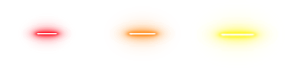
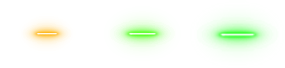
changed bullets for both xwing and tiefighters

Changed region(s): [[0.7298, 0.2941, 0.9544, 0.7059], [0.4211, 0.3529, 0.5895, 0.6471], [0.0842, 0.3529, 0.2246, 0.6176]]

diff --git a/js/gameV.js b/js/gameV.js
@@ -39,9 +39,13 @@ var xwing;
 var alive = false;
 var tieFighters;
 var blaster;
-var bullets;
-var bulletTime = 0;
+var bulletsR;
+var bulletsL;
+var bulletTimeL = 0;
+var bulletTimeR = 0;
 var bullet;
+var bulletL;
+var bulletR;
 var tieBullet;
 var enemyBullets;
 var explosions;
@@ -69,7 +73,8 @@ function preload() {
     game.load.image('foreground', 'assets/deathstar.png');
     game.load.image('xwing', 'assets/xwing.png');
     game.load.image('tieFighter', 'assets/tie.png');
-    game.load.image('bullet', 'assets/bullet0.png');
+    game.load.image('bulletL', 'assets/bullet0.png');
+    game.load.image('bulletR', 'assets/bullet0.png');
     game.load.image('tieBullet', 'assets/enemyBullet0.png');
     game.load.spritesheet('kaboom', 'assets/explode.png', 128, 128);
     game.load.audio('blaster', 'assets/blaster.mp3');
@@ -117,7 +122,7 @@ function createText() {
 
 }
 
-function play() {
+function playGame() {
 
     //game.paused = true;
     console.log('PLAY GAME');
@@ -202,7 +207,6 @@ function create() {
     tieFightersBullets.forEach(function (enemy) {
         enemy.body.setSize(20, 20);
         enemy.body.setSize(enemy.width * 3 / 4, enemy.height * 3 / 4);
-        enemy.damageAmount = 20;
     });
 
     launchTieFighter();
@@ -212,21 +216,32 @@ function create() {
     xwing.physicsBodyType = Phaser.Physics.ARCADE;
 
 
-    bullets = game.add.group();
-    bullets.enableBody = true;
-    bullets.physicsBodyType = Phaser.Physics.ARCADE;
+    bulletsR = game.add.group();
+    bulletsR.enableBody = true;
+    bulletsR.physicsBodyType = Phaser.Physics.ARCADE;
+    bulletsR.createMultiple(30, 'bulletR');
+    bulletsL = game.add.group();
+    bulletsL.enableBody = true;
+    bulletsL.physicsBodyType = Phaser.Physics.ARCADE;
+    bulletsL.createMultiple(30, 'bulletR');
 
     // Add sounds
     game.explode = game.add.audio('explode');
     game.blaster = game.add.audio('blaster');
 
-    for (var i = 0; i < 20; i++) {
-        var b = bullets.create(40, 0, 'bullet');
-        b.name = 'bullet' + i;
-        b.exists = false;
-        b.visible = false;
-        b.checkWorldBounds = true;
-        b.events.onOutOfBounds.add(resetBullet, this);
+    for (var i = 0; i < 200; i++) {
+        var bL = bulletsL.create(40, 0, 'bulletL');
+        var bR = bulletsR.create(40, 0, 'bulletR');
+        bL.name = 'bulletL' + i;
+        bL.exists = false;
+        bL.visible = false;
+        bL.checkWorldBounds = true;
+        bL.events.onOutOfBounds.add(resetBullet, this);
+        bR.name = 'bulletR' + i;
+        bR.exists = false;
+        bR.visible = false;
+        bR.checkWorldBounds = true;
+        bR.events.onOutOfBounds.add(resetBullet, this);
     }
 
     // create the xwing
@@ -266,7 +281,8 @@ function create() {
         pLife = pLives.create(60 + (i * 30), gameHeight - 50, 'lives', i);
     }
 
-    play();
+
+    playGame();
 }
 
 function shield(health) {
@@ -321,7 +337,8 @@ function setupExplosions(explode) {
 function update() {
 
     // add the collision handlers
-    game.physics.arcade.collide(bullets, tieFighters, playerKillsEnemy, null, this);
+    game.physics.arcade.collide(bulletsL, tieFighters, playerKillsEnemy, null, this);
+    game.physics.arcade.collide(bulletsR, tieFighters, playerKillsEnemy, null, this);
     game.physics.arcade.collide(xwing, tieFighters, enemyPlayerCollide, null, this);
     game.physics.arcade.collide(xwing, tieFightersBullets, enemyBulletKillPlayer, null, this);
 
@@ -341,10 +358,11 @@ function update() {
     else if (cursors.down.isDown || wasd.down.isDown) {
         xwing.body.velocity.y = speed;
     }
-
     if (game.input.keyboard.isDown(Phaser.Keyboard.SPACEBAR) || game.input.activePointer.isDown) {
         if(alive){
-            fireBullet();
+
+            fireBulletL();
+            fireBulletR();
         }
     }
 
@@ -353,20 +371,32 @@ function update() {
 }
 
 // fire the bullet
-function fireBullet() {
 
-    if (game.time.now > bulletTime) {
-        bullet = bullets.getFirstExists(false);
+function fireBulletL() {
 
-        if (bullet && numLives > 0) {
-            bullet.reset(xwing.x - 70, xwing.y - 0);
-            bullet.reset(xwing.x - 7, xwing.y - 40);
-            bullet.body.velocity.y = - 500;
-            bulletTime = game.time.now + 150;
+    if (game.time.now > bulletTimeL) {
+        bulletL = bulletsL.getFirstExists(false);
+
+        if (bulletL && numLives > 0) {
+            bulletL.reset(xwing.x - 44, xwing.y - 40);
+            bulletL.body.velocity.y = -500;
+            bulletTimeL = game.time.now + 150;
             game.blaster.play();
         }
     }
+}
+function fireBulletR() {
+    if (game.time.now > bulletTimeR) {
+        bulletR = bulletsR.getFirstExists(false);
 
+
+        if (bulletR && numLives > 0) {
+            bulletR.reset(xwing.x + 20, xwing.y - 40);
+            bulletR.body.velocity.y = -500;
+            bulletTimeR = game.time.now + 150;
+            game.blaster.play();
+        }
+    }
 }
 
 //  Called if the bullet goes out of the screen
@@ -417,7 +447,7 @@ function enemyBulletKillPlayer(player, enemyBullet) {
 if(numLives > 0) {
     if (playerHealth > 0) {
         var explosion = explosions.getFirstExists(false);
-        explosion.reset(player.body.x - 50, player.body.y - 50);
+        explosion.reset(player.body.x - 25, player.body.y - 20);
         explosion.alpha = 0.7;
         explosion.play('kaboom', 30, false, true);
         game.explode.play();
@@ -445,6 +475,7 @@ function playerKillsEnemy(bullet, enemy) {
     score += 20;
 
     if(score >= highScore){
+
         highScore = score;
         updateScore(highScore);
     }
@@ -472,8 +503,8 @@ function launchTieFighter() {
         enemy.body.drag.x = 100;
 
         //  Set up firing
-        var bulletSpeed = 400;
-        var firingDelay = 2000;
+        var bulletSpeed = 800;
+        var firingDelay = 1000;
         enemy.enemyBullets = 1;
         enemy.lastShot = 0;
     }
